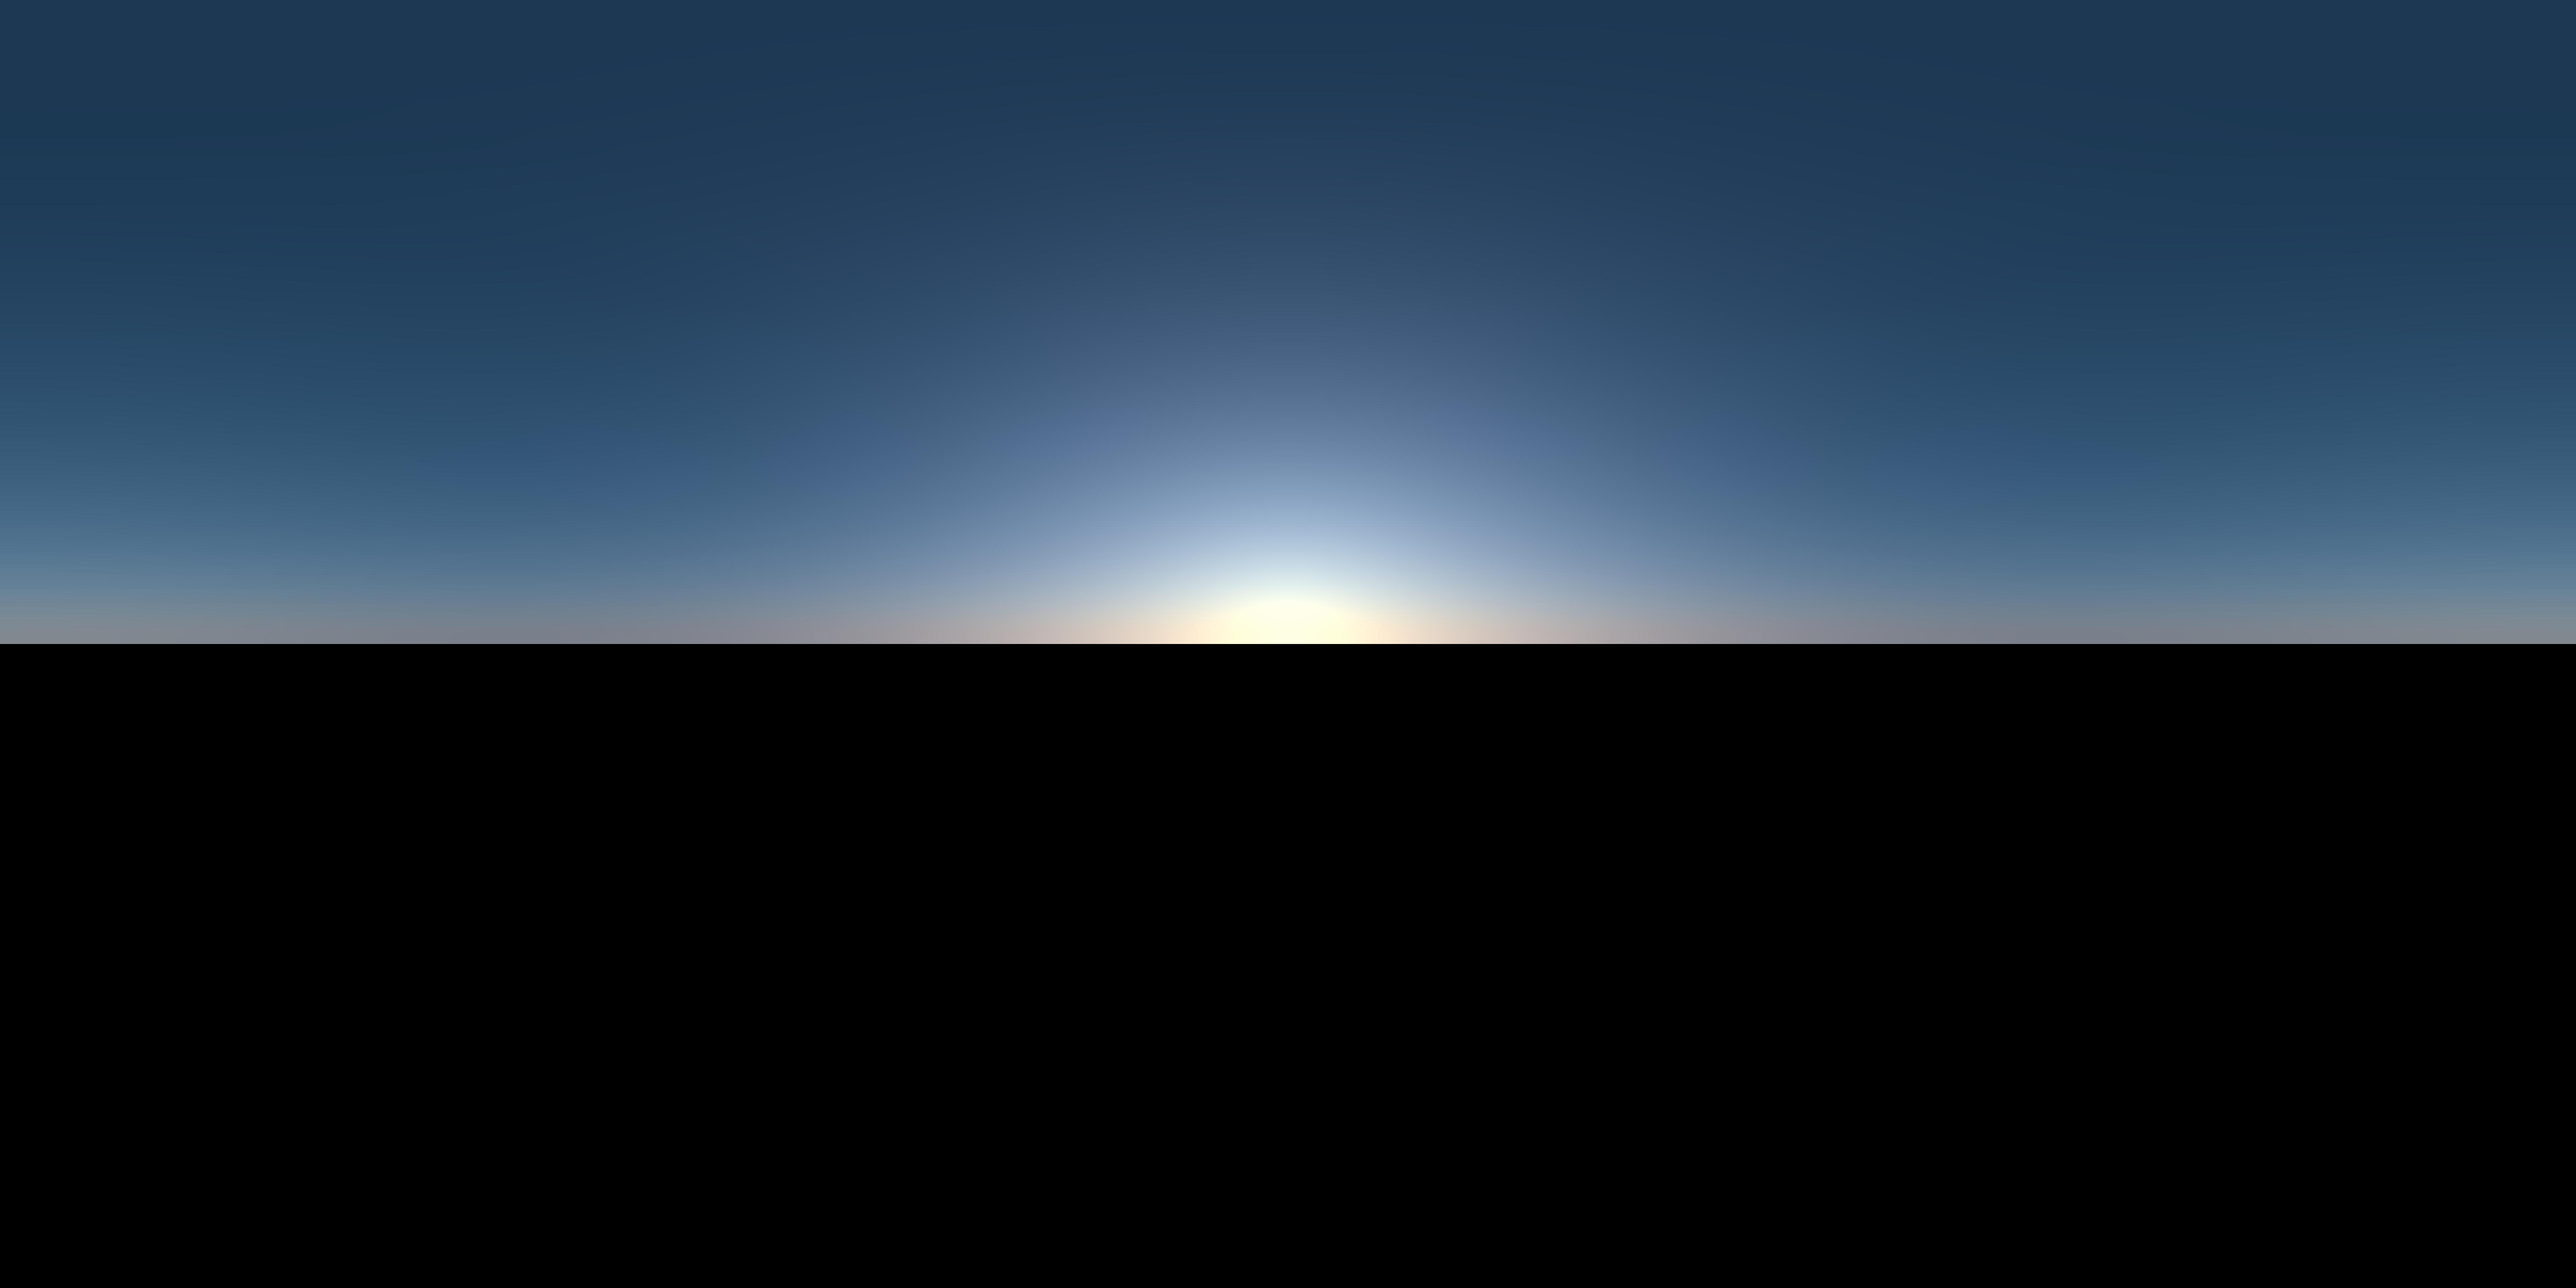
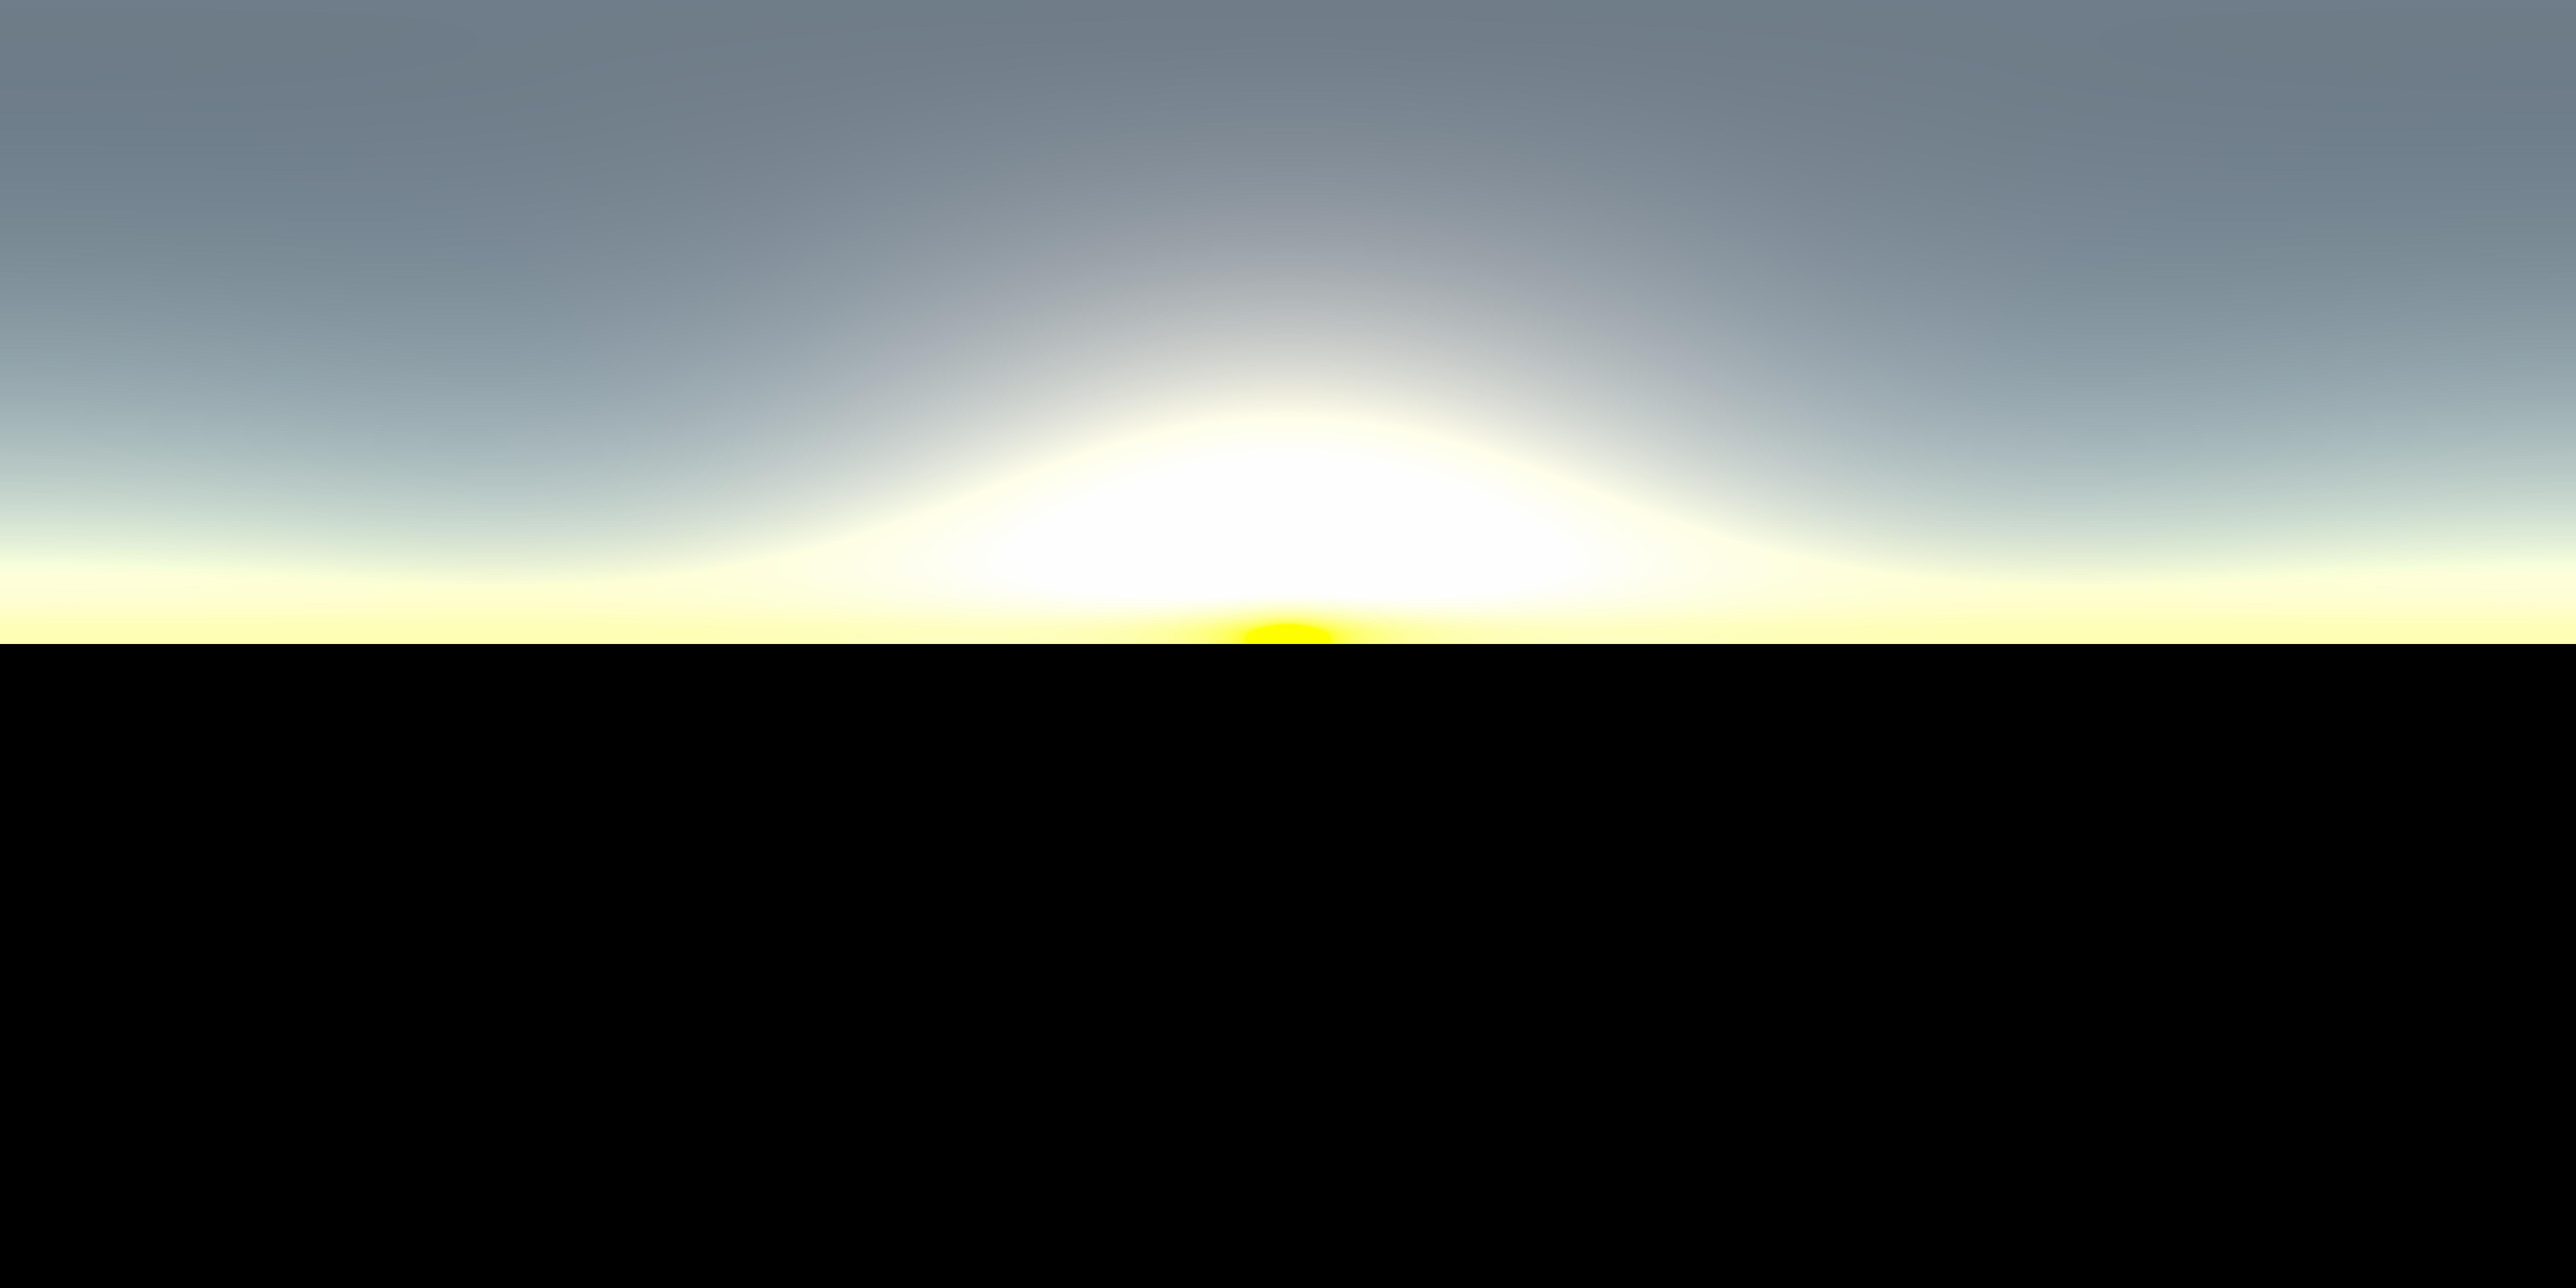
fix a bug in Preetham equations

diff --git a/simulate.py b/simulate.py
@@ -114,9 +114,9 @@ perez_coeffs_y = {
     'E': -0.0109 * T + 0.0529
 }
 
-Y = Y_z * perez_fn(theta, gamma, **perez_coeffs_Y)
-x = x_z * perez_fn(theta, gamma, **perez_coeffs_x)
-y = y_z * perez_fn(theta, gamma, **perez_coeffs_y)
+Y = Y_z * perez_fn(theta, gamma, **perez_coeffs_Y) / perez_fn(torch.tensor(0.0), torch.tensor(theta_s), **perez_coeffs_Y)
+x = x_z * perez_fn(theta, gamma, **perez_coeffs_x) / perez_fn(torch.tensor(0.0), torch.tensor(theta_s), **perez_coeffs_x)
+y = y_z * perez_fn(theta, gamma, **perez_coeffs_y) / perez_fn(torch.tensor(0.0), torch.tensor(theta_s), **perez_coeffs_y)
 
 # Convert CIE xyY to CIE XYZ
 X = (Y / y) * x
